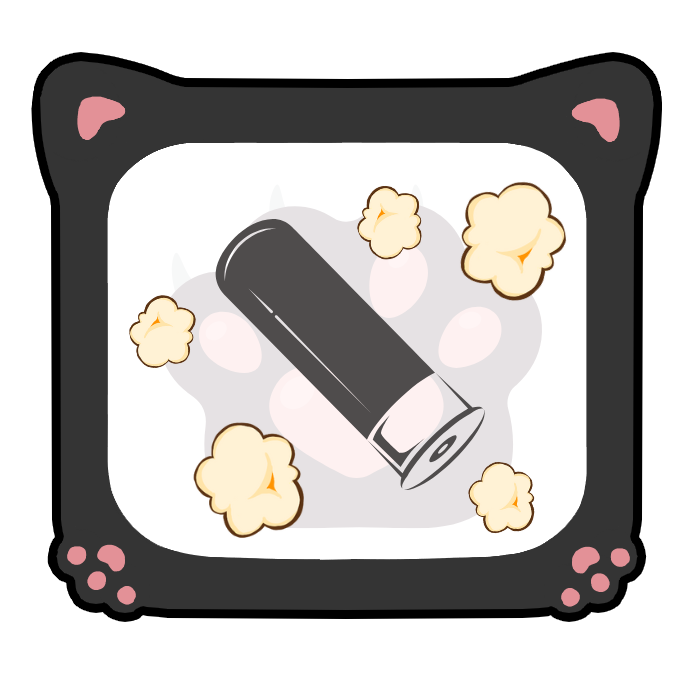
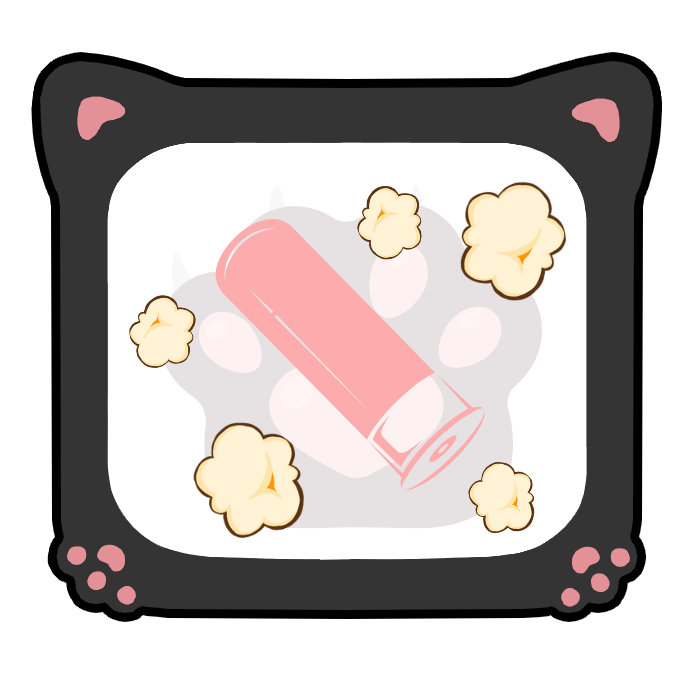
HAHAHAHA QUE BIEN ESTOY
(CAMBIA DE SPRITE CUANDO SELECCIONAS UN ARMA, AUNQUE VA MAL)

Changed region(s): [[0.3, 0.3, 0.69, 0.72]]

diff --git a/project/src/game/SelectionMenuScene.cpp b/project/src/game/SelectionMenuScene.cpp
@@ -15,12 +15,14 @@
 #include "../our_scripts/card_system/Card.hpp"
 #include "../our_scripts/card_system/PlayableCards.hpp"
 #include "../our_scripts/components/Deck.hpp"
+#include "../our_scripts/components/Image.h"
+#include "../our_scripts/components/ImageForButton.h"
 #include <iostream>
 #include <string>
 #include <list>
 
 
-SelectionMenuScene::SelectionMenuScene(): Scene(ecs::scene::SELECTIONMENUSCENE), _weapon_selected(false), _deck_selected(false)
+SelectionMenuScene::SelectionMenuScene(): Scene(ecs::scene::SELECTIONMENUSCENE), _weapon_selected(false), _deck_selected(false), _last_weapon_button(nullptr)
 {
 }
 
@@ -52,7 +54,7 @@ void SelectionMenuScene::create_weapon_buttons() {
     create_weapon_button(GameStructs::PUMP_SHOTGUN, pump_shotgun_B);
 
     GameStructs::ButtonProperties ramp_canon_B = buttonPropTemplate;
-    ramp_canon_B.sprite_key = "pump_shotgun_button";
+    ramp_canon_B.sprite_key = "ramp_canon_button";
     h = sdlutils().height() * thrust * i++ + umbral;
     ramp_canon_B.pos.setY(h);
     create_weapon_button(GameStructs::RAMP_CANON, ramp_canon_B);
@@ -112,8 +114,12 @@ void SelectionMenuScene::create_weapon_button(GameStructs::WeaponType wt, const 
     auto* mngr = Game::Instance()->get_mngr();
     auto e = create_button(bp);
     auto buttonComp = mngr->getComponent<Button>(e);
+    //used for change the sprite once a button is clicked
+    auto imgComp = mngr->addComponent<ImageForButton>(e, 
+        &sdlutils().images().at(bp.sprite_key),
+        &sdlutils().images().at(bp.sprite_key + "_selected"));
     auto player = mngr->getHandler(ecs::hdlr::PLAYER);
-    buttonComp->connectClick([buttonComp, &mngr, wt, player, this]() {
+    buttonComp->connectClick([buttonComp, imgComp, &mngr, wt, player, this]() {
         if (buttonComp->clicked()) return;
         buttonComp->set_clicked(true);
         //std::cout << "left click-> button" << std::endl;
@@ -140,6 +146,17 @@ void SelectionMenuScene::create_weapon_button(GameStructs::WeaponType wt, const 
             break;
         }
         _weapon_selected = true;
+
+        //swap the actual buttons textures
+        imgComp->swap_textures();
+
+        //register the last clicked button
+        if (_last_weapon_button != nullptr && _last_weapon_button != imgComp) {
+            _last_weapon_button->swap_textures();
+        }
+        _last_weapon_button = imgComp;
+
+
         if (_deck_selected) Game::Instance()->change_Scene(Game::GAMESCENE);
         });
 
@@ -177,6 +194,7 @@ void SelectionMenuScene::create_deck_button(GameStructs::DeckType dt, const Game
         }
         mngr->addComponent<Deck>(player, cl);
         _deck_selected = true;
+
         if (_weapon_selected) Game::Instance()->change_Scene(Game::GAMESCENE);
         });
 

diff --git a/project/src/our_scripts/components/ImageForButton.cpp b/project/src/our_scripts/components/ImageForButton.cpp
@@ -1,0 +1,23 @@
+#include "ImageForButton.h"
+
+#include <cassert>
+
+#include "../../ecs/Manager.h"
+#include "../../sdlutils/macros.h"
+#include "../../sdlutils/Texture.h"
+#include "Transform.h"
+#include "../../game/Game.h"
+
+
+ImageForButton::ImageForButton() : Image(), _selected_tex(nullptr){
+}
+
+ImageForButton::ImageForButton(Texture *tex, Texture* stex): Image(tex), _selected_tex(stex){
+	assert(stex != nullptr);
+}
+void
+ImageForButton::swap_textures() {
+	Texture* aux = _tex;
+	_tex = _selected_tex;
+	_selected_tex = aux;
+}

diff --git a/project/src/our_scripts/components/ImageForButton.h b/project/src/our_scripts/components/ImageForButton.h
@@ -1,0 +1,14 @@
+#pragma once
+#include "Image.h"
+
+class ImageForButton : public Image {
+public:
+	__CMPID_DECL__(ecs::cmp::IMAGE)
+	ImageForButton();
+	ImageForButton(Texture* tex, Texture* stex);
+	virtual ~ImageForButton() { };
+	void swap_textures();
+protected:
+	Texture *_selected_tex;
+};
+

diff --git a/project/src/game/SelectionMenuScene.h b/project/src/game/SelectionMenuScene.h
@@ -2,6 +2,7 @@
 #include "Scene.h"
 
 class Texture;
+class ImageForButton;
 class SelectionMenuScene : public Scene
 {
 public:
@@ -23,4 +24,6 @@ private:
 	//flags to control if both has been selected
 	bool _weapon_selected;
 	bool _deck_selected;
+
+	ImageForButton* _last_weapon_button;
 };

diff --git a/project/src/game/Scene.cpp b/project/src/game/Scene.cpp
@@ -6,6 +6,7 @@
 
 #include "../our_scripts/components/Transform.h"
 #include "../our_scripts/components/Image.h"
+#include "../our_scripts/components/ImageForButton.h"
 #include "../our_scripts/components/Button.h"
 #include <string>
 Scene::Scene(ecs::sceneId_t id) : _scene_ID(id) {}

diff --git a/project/src/our_scripts/components/Image.h b/project/src/our_scripts/components/Image.h
@@ -22,7 +22,7 @@ public:
 	void initComponent() override;
 	void render() override;
 
-private:
+protected:
 	Transform *_tr;
 	Texture *_tex;
 };
